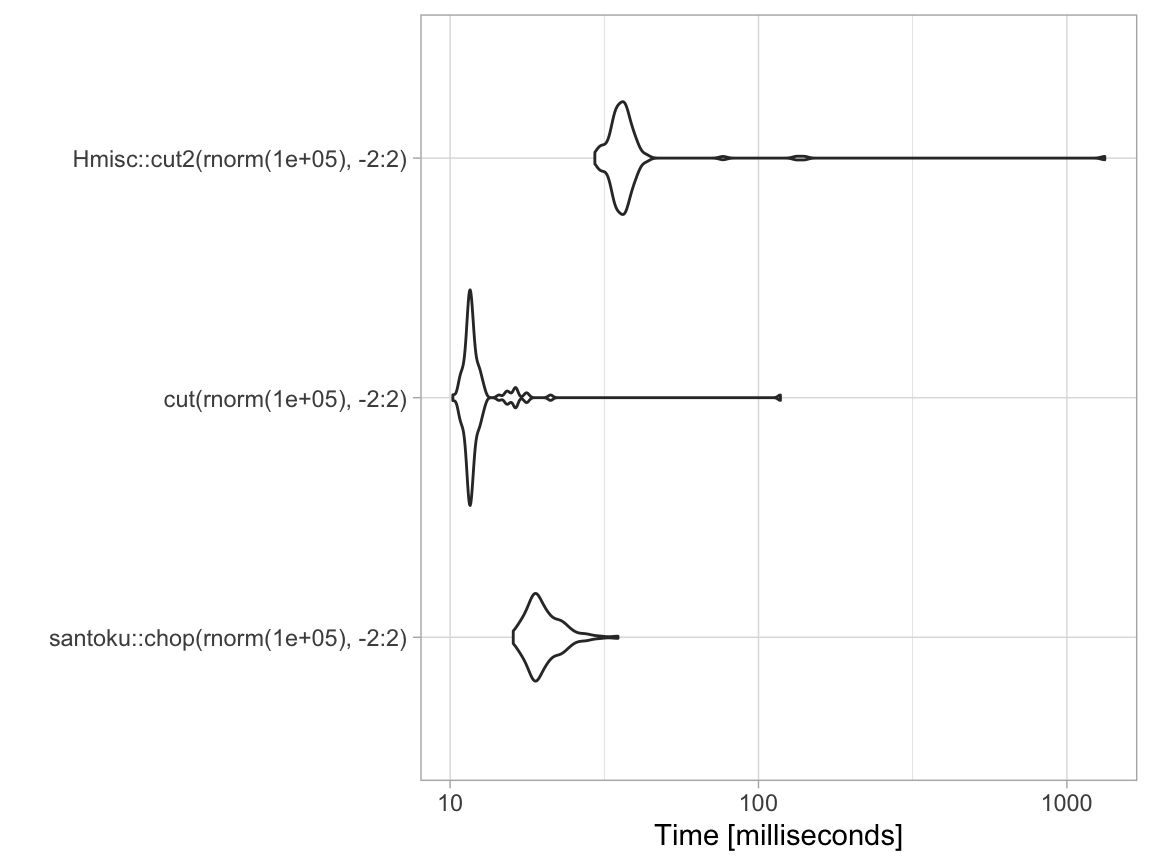
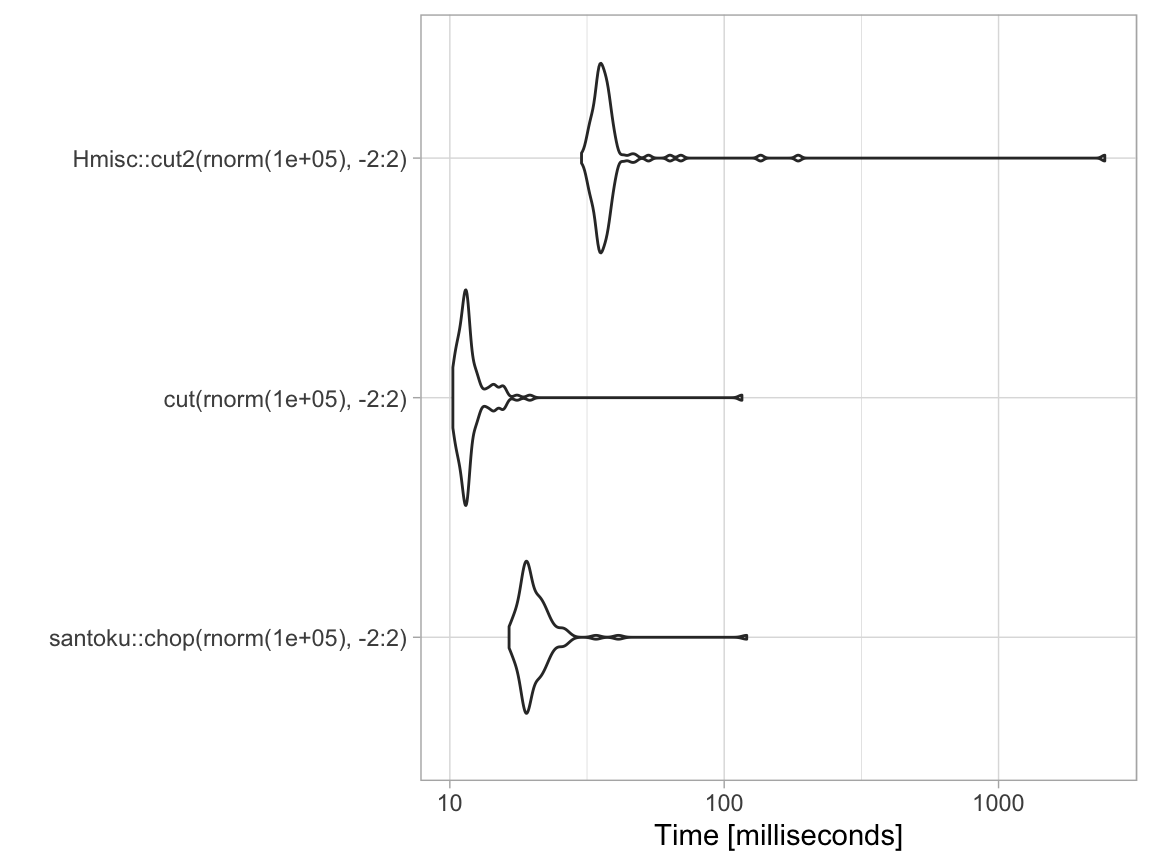
Update site now we're on CRAN

diff --git a/docs/articles/website-articles/performance.html b/docs/articles/website-articles/performance.html
@@ -134,13 +134,13 @@
 <span class="no">mb</span>
 <span class="co">#&gt; Unit: milliseconds</span>
 <span class="co">#&gt;                               expr      min       lq     mean   median       uq</span>
-<span class="co">#&gt;  santoku::chop(rnorm(1e+05), -2:2) 16.02333 18.56082 20.32968 19.28067 21.78603</span>
-<span class="co">#&gt;            cut(rnorm(1e+05), -2:2) 10.20855 11.45981 13.25780 11.68182 12.23105</span>
-<span class="co">#&gt;    Hmisc::cut2(rnorm(1e+05), -2:2) 29.47315 34.18474 51.25379 36.11217 37.92563</span>
-<span class="co">#&gt;         max neval cld</span>
-<span class="co">#&gt;    35.02982   100  a </span>
-<span class="co">#&gt;   117.79532   100  a </span>
-<span class="co">#&gt;  1327.32768   100   b</span></pre></body></html></div>
+<span class="co">#&gt;  santoku::chop(rnorm(1e+05), -2:2) 16.44110 18.73275 21.48689 19.48297 21.52633</span>
+<span class="co">#&gt;            cut(rnorm(1e+05), -2:2) 10.25798 11.02211 12.97955 11.48514 12.20997</span>
+<span class="co">#&gt;    Hmisc::cut2(rnorm(1e+05), -2:2) 30.20186 34.57191 63.30914 35.96258 37.78377</span>
+<span class="co">#&gt;        max neval cld</span>
+<span class="co">#&gt;   120.8239   100  ab</span>
+<span class="co">#&gt;   116.0484   100  a </span>
+<span class="co">#&gt;  2439.1351   100   b</span></pre></body></html></div>
 <div class="sourceCode" id="cb2"><html><body><pre class="r"><span class="kw pkg">ggplot2</span><span class="kw ns">::</span><span class="fu"><a href="https://ggplot2.tidyverse.org/reference/autoplot.html">autoplot</a></span>(<span class="no">mb</span>) + <span class="kw pkg">ggplot2</span><span class="kw ns">::</span><span class="fu"><a href="https://ggplot2.tidyverse.org/reference/ggtheme.html">theme_light</a></span>()
 <span class="co">#&gt; Coordinate system already present. Adding new coordinate system, which will replace the existing one.</span></pre></body></html></div>
 <p><img src="performance_files/figure-html/unnamed-chunk-2-1.png" width="576"></p>

diff --git a/docs/news/index.html b/docs/news/index.html
@@ -154,7 +154,7 @@
 
     <div id="santoku-0-4-0" class="section level1">
 <h1 class="page-header" data-toc-text="0.4.0">
-<a href="#santoku-0-4-0" class="anchor"></a>santoku 0.4.0<small> Unreleased </small>
+<a href="#santoku-0-4-0" class="anchor"></a>santoku 0.4.0<small> 2020-06-09 </small>
 </h1>
 <div id="interface-changes" class="section level2">
 <h2 class="hasAnchor">
